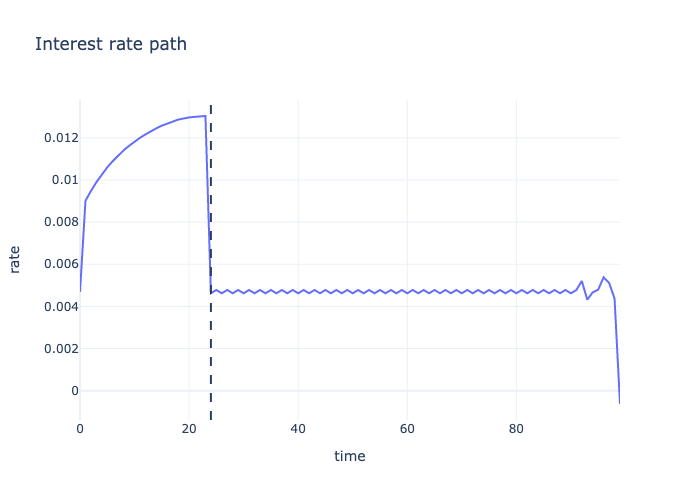
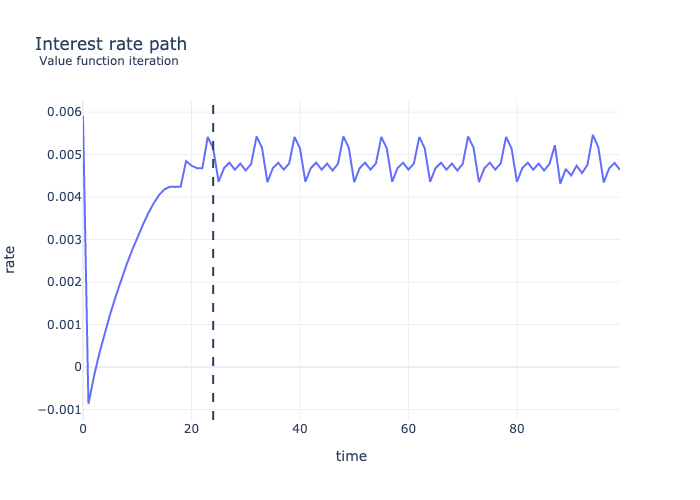
updated transition path figure based on latest pacthes

diff --git a/ps3/main_hugget_trans.py b/ps3/main_hugget_trans.py
@@ -37,25 +37,20 @@ PARAMS = {
 }
 
 PARAMS["V_guess"] = np.full((
-			PARAMS["inc_grid_size"],
-			PARAMS["action_grid_size"], 
-			PARAMS["action_grid_size"]), -100.0)
+			PARAMS["action_grid_size"],
+			PARAMS["inc_grid_size"]), -100.0)
 
 def solve_hh(rate, borrow_constr, reward_matrix, consumption_matrix, asset_states, action_set, V_guess, params, method):
-		
-	arbitrary_slice_index = 0
+	# Note, the two methods seem to almost give the same policy. Most values correspond, some don't but are close nontheless. Not the same value function.
+	
 	if method == "VFI":
 		# Returns index of policy. Make consistent
-		V, pol_ix = value_function_iterate(V_guess[:,:, arbitrary_slice_index].T, PARAMS["transition_matrix"], reward_matrix, params["income_states"], asset_states, params["disc_fact"], params["value_func_tol"])
+		V, pol_ix = value_function_iterate(V_guess, PARAMS["transition_matrix"], reward_matrix, params["income_states"], asset_states, params["disc_fact"], params["value_func_tol"])
 		pol = policy_ix_to_policy(pol_ix.T, params["income_states"], asset_states, action_set)
 		pol = pol.T
-		# Note: V is transposed. Might matter. 
 	
 	if method == "EGM":	
-		# Return actual policy, not index
-		
 		action_states = find_asset_grid(params, borrow_constr[1])
-		V_guess = V_guess[:,:, arbitrary_slice_index].T
 		V, pol = egm(V_guess, PARAMS["transition_matrix"], action_states, asset_states, rate, params, tol = 1e-6)
 		# Transform policy back to the exogenous grid for compatibility with distribution iteration
 		for s in range(pol.shape[1]):
@@ -102,19 +97,15 @@ def find_ss_rate(borrow_constr, V_guess, params, method = "VFI"):
 	
 	return(root_rate)
 
-bc_ss = np.repeat(PARAMS["policy_bc"][0],2)
-tmp = solve_ss(0.001, bc_ss, PARAMS["V_guess"], PARAMS, "VFI")
+#rate_pre = find_ss_rate(np.repeat(PARAMS["policy_bc"][0],2), PARAMS["V_guess"], PARAMS, method = "EGM")
 
-rate_pre = find_ss_rate(np.repeat(PARAMS["policy_bc"][0],2), PARAMS["V_guess"], PARAMS, method = "VFI")
+#rate_post = find_ss_rate(np.repeat(PARAMS["policy_bc"][-1],2), PARAMS["V_guess"], PARAMS, method = "EGM")
 
-rate_post = find_ss_rate(np.repeat(PARAMS["policy_bc"][-1],2), PARAMS["V_guess"], PARAMS, method = "EGM")
-
-def	solve_transition(rate_guess, t, V_post, params):
+def	solve_transition(rate_guess, t, V_next, params):
 	''' Guess an interest rate transition vector, and output net asset demand
 
 	Given an interest rate guess vector, the implied hh behavior and subsequent distribuiton and net asset demand is calculated along the whole transition. 
 	'''
-	V_next = V_post
 	borrow_constr = params["policy_bc"]
 	income_states = params["income_states"]
 	pol_list = []
@@ -128,12 +119,10 @@ def	solve_transition(rate_guess, t, V_post, params):
 	asset_states = find_asset_grid(params, bc_t)
 	action_set = find_asset_grid(params, bc_t_next)
 	asset_states_next = np.copy(action_set)
-	
-	V, pol = solve_hh(rate_guess, bc_t, reward_matrix, consumption_matrix, asset_states_next, action_set, np.expand_dims(V_next,2), params, method = "EGM")
-	
+	V, pol = solve_hh(rate_guess, bc, reward_matrix, consumption_matrix, asset_states_next, action_set, V_next, params, method = "EGM")
 	pol_list.append(pol)
 	distr.append(solve_distr(pol_list[-1], action_set, params)) 
-	net_asset_demand = check_mc(params, policy, distr[-1]) 
+	net_asset_demand = check_mc(params, pol, distr[-1]) 
 	return(net_asset_demand)
 
 def find_transition_eq(params, rate_pre = None, rate_post = None, V_post = None):
@@ -141,22 +130,21 @@ def find_transition_eq(params, rate_pre = None, rate_post = None, V_post = None)
 
 	Can take as input pre and post ss interest rates. Default is to compute them.
 	'''
-	V_guess = np.full((
-			params["inc_grid_size"],
-			params["action_grid_size"], 
-			params["action_grid_size"]), -100.0)
 	if rate_pre is None:
-		rate_pre = find_ss_rate(np.repeat(params["policy_bc"][0],2), V_guess, params)
+		rate_pre = find_ss_rate(np.repeat(params["policy_bc"][0],2), params["V_guess"], params)
 	if rate_post is None:
-		rate_post = find_ss_rate(np.repeat(params["policy_bc"][-1],2), V_guess, params)
+		rate_post = find_ss_rate(np.repeat(params["policy_bc"][-1],2), params["V_guess"], params)
 	if V_post is None:
-		V_post = solve_ss(rate_post, np.repeat(params["policy_bc"][-1],2), V_guess, params)[1]
+		V_post = solve_ss(rate_post, np.repeat(params["policy_bc"][-1],2), params["V_guess"], params)[1]
 	
 	rate_next = rate_post
 	rate_path = []
+
 	for t in reversed(range(1, params["T"]-1)):
+		# TODO: is it necessary to update V_post?
 		# Within loop, find the root finding rate for each t, starting backwards
 		root_rate_t = sp.optimize.newton(lambda x: solve_transition(x, t, V_post, params), x0 = rate_next, x1 = rate_next - 0.005, tol = params["mc_tol"])
+
 		rate_path.append(root_rate_t)
 		rate_next = root_rate_t
 		print("Found this rate: " + str(root_rate_t) + " at time: " + str(t))
